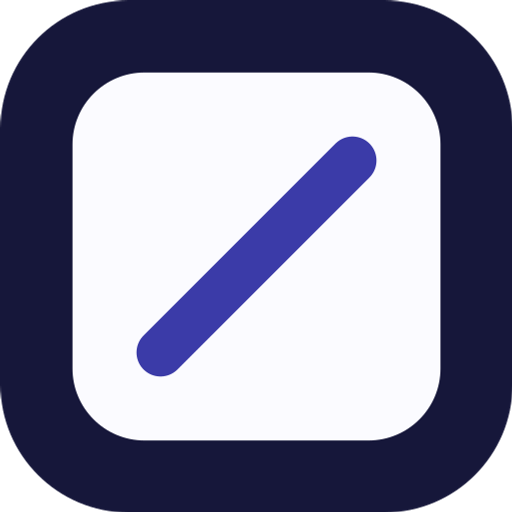
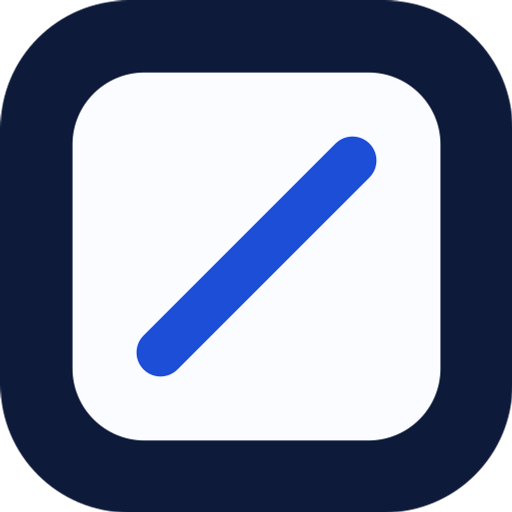
Шрифт Manrope, настоящий синий вместо индиго, кнопка «Смотреть работы» на первом экране

Changed region(s): [[0.25, 0.25, 0.75, 0.75]]

diff --git a/src/components/calc/CeilingPreview.tsx b/src/components/calc/CeilingPreview.tsx
@@ -160,7 +160,7 @@ export default function CeilingPreview({ room, className = '' }: { room: Room; c
   const corniceLen = Math.min(X1 - X0 - 16, room.corniceM * pxPerM);
   const ledOnly = room.ledM > 0 && room.corniceM === 0;
 
-  const fill = room.colored ? '#e0e4f7' : room.canvas === 'fabric' ? '#f8f6f2' : '#f8f8ff';
+  const fill = room.colored ? '#dfe8f8' : room.canvas === 'fabric' ? '#f8f6f2' : '#f8faff';
   const t = room.type;
 
   const label = [
@@ -183,8 +183,8 @@ export default function CeilingPreview({ room, className = '' }: { room: Room; c
           <feGaussianBlur stdDeviation="2.2" />
         </filter>
         <radialGradient id={`spot-${uid}`}>
-          <stop offset="0" stopColor="#aab0ff" stopOpacity="0.85" />
-          <stop offset="1" stopColor="#aab0ff" stopOpacity="0" />
+          <stop offset="0" stopColor="#9bbcff" stopOpacity="0.85" />
+          <stop offset="1" stopColor="#9bbcff" stopOpacity="0" />
         </radialGradient>
         <linearGradient id={`gloss-${uid}`} x1="0" y1="0" x2="1" y2="1">
           <stop offset="0.35" stopColor="#fff" stopOpacity="0" />
@@ -202,11 +202,11 @@ export default function CeilingPreview({ room, className = '' }: { room: Room; c
       </defs>
 
       {/* Стены вокруг потолка */}
-      <rect x="0" y="0" width={W} height={H} rx="18" fill="#eef0fc" />
+      <rect x="0" y="0" width={W} height={H} rx="18" fill="#edf3fd" />
 
       {/* Подсветка по периметру (парящий) */}
       {t === 'paryashchiy' && (
-        <polygon points={pts(poly)} fill="none" stroke="#aab0ff" strokeWidth="14" filter={`url(#glow-${uid})`} opacity="0.95" />
+        <polygon points={pts(poly)} fill="none" stroke="#9bbcff" strokeWidth="14" filter={`url(#glow-${uid})`} opacity="0.95" />
       )}
 
       {/* Полотно */}
@@ -215,14 +215,14 @@ export default function CeilingPreview({ room, className = '' }: { room: Room; c
       <polygon points={pts(poly)} fill={`url(#gloss-${uid})`} />
 
       {/* Примыкание к стенам */}
-      {t === 'tenevoy' && <polygon points={pts(poly)} fill="none" stroke="#16173a" strokeWidth="7" strokeLinejoin="miter" />}
-      {t === 'paryashchiy' && <polygon points={pts(poly)} fill="none" stroke="#3b3ba8" strokeWidth="2.5" />}
-      {(t === 'klassika' || t === 'linii') && <polygon points={pts(poly)} fill="none" stroke="#c8cdea" strokeWidth="3" />}
+      {t === 'tenevoy' && <polygon points={pts(poly)} fill="none" stroke="#0e1a3a" strokeWidth="7" strokeLinejoin="miter" />}
+      {t === 'paryashchiy' && <polygon points={pts(poly)} fill="none" stroke="#1d4ed8" strokeWidth="2.5" />}
+      {(t === 'klassika' || t === 'linii') && <polygon points={pts(poly)} fill="none" stroke="#c3d3ec" strokeWidth="3" />}
 
       <g clipPath={`url(#clip-${uid})`}>
         {/* Скрытый карниз / подсветка в нише у окна */}
         {corniceLen > 0 && (
-          <rect x={X0 + 8} y={Y0 + 2} width={corniceLen} height="12" rx="3" fill={room.ledM > 0 ? '#d3d7fb' : '#d9dcef'} />
+          <rect x={X0 + 8} y={Y0 + 2} width={corniceLen} height="12" rx="3" fill={room.ledM > 0 ? '#d0e0fb' : '#d8e2f2'} />
         )}
         {(room.ledM > 0 && corniceLen > 0) || ledOnly ? (
           <rect
@@ -231,7 +231,7 @@ export default function CeilingPreview({ room, className = '' }: { room: Room; c
             width={corniceLen > 0 ? corniceLen : X1 - X0 - 16}
             height="4"
             rx="2"
-            fill="#aab0ff"
+            fill="#9bbcff"
             filter={`url(#soft-${uid})`}
           />
         ) : null}
@@ -239,13 +239,13 @@ export default function CeilingPreview({ room, className = '' }: { room: Room; c
         {/* Световые линии */}
         {lines.rect && (
           <g>
-            <g stroke="#aab0ff" strokeWidth="8" fill="none" filter={`url(#soft-${uid})`} opacity="0.9">
+            <g stroke="#9bbcff" strokeWidth="8" fill="none" filter={`url(#soft-${uid})`} opacity="0.9">
               <rect x={lines.rect.x} y={lines.rect.y} width={lines.rect.w} height={lines.rect.h} />
               {lines.diagonals.map(([a, b], i) => (
                 <line key={i} x1={a[0]} y1={a[1]} x2={b[0]} y2={b[1]} />
               ))}
             </g>
-            <g stroke="#3b3ba8" strokeWidth="2.5" fill="none" strokeLinecap="square">
+            <g stroke="#1d4ed8" strokeWidth="2.5" fill="none" strokeLinecap="square">
               <rect x={lines.rect.x} y={lines.rect.y} width={lines.rect.w} height={lines.rect.h} />
               {lines.diagonals.map(([a, b], i) => (
                 <line key={i} x1={a[0]} y1={a[1]} x2={b[0]} y2={b[1]} />
@@ -256,23 +256,23 @@ export default function CeilingPreview({ room, className = '' }: { room: Room; c
 
         {/* Обход труб */}
         {Array.from({ length: Math.min(room.pipes, 6) }, (_, i) => (
-          <circle key={i} cx={X0 + 14 + i * 14} cy={Y1 - 14} r="4.5" fill="#fff" stroke="#555880" strokeWidth="2" />
+          <circle key={i} cx={X0 + 14 + i * 14} cy={Y1 - 14} r="4.5" fill="#fff" stroke="#4e5f80" strokeWidth="2" />
         ))}
 
         {/* Точечные светильники */}
         {spots.map(([x, y], i) => (
           <g key={i}>
             <circle cx={x} cy={y} r="11" fill={`url(#spot-${uid})`} />
-            <circle cx={x} cy={y} r="4.2" fill="#ffffff" stroke="#9a9dc0" strokeWidth="1.5" />
+            <circle cx={x} cy={y} r="4.2" fill="#ffffff" stroke="#94a3c4" strokeWidth="1.5" />
           </g>
         ))}
 
         {/* Люстры */}
         {chandeliers.map(([x, y], i) => (
-          <g key={i} stroke="#555880" fill="none">
+          <g key={i} stroke="#4e5f80" fill="none">
             <circle cx={x} cy={y} r="22" fill={`url(#spot-${uid})`} stroke="none" />
             <circle cx={x} cy={y} r="13" strokeWidth="2" />
-            <circle cx={x} cy={y} r="3.5" fill="#555880" stroke="none" />
+            <circle cx={x} cy={y} r="3.5" fill="#4e5f80" stroke="none" />
             {[0, 60, 120, 180, 240, 300].map((a) => (
               <line
                 key={a}

diff --git a/src/styles/global.css b/src/styles/global.css
@@ -7,30 +7,30 @@
  * brand-deep — тёмные страницы, glow — свечение светодиодов (только для декора), ink — текст.
  */
 @theme {
-  --color-ceiling: #fbfbff;
+  --color-ceiling: #fafcff;
   --color-plane: #ffffff;
-  --color-haze: #eef0fc;
-  --color-page-tint: #e4e7f8;
-  --color-mist: #d2d6f0;
-  --color-line: #e0e3f3;
-  --color-brand: #3b3ba8;
-  --color-brand-deep: #26266e;
-  --color-glow: #aab0ff;
-  --color-ink: #16173a;
-  --color-ink-soft: #555880;
+  --color-haze: #edf3fd;
+  --color-page-tint: #e1ebfb;
+  --color-mist: #cddbf4;
+  --color-line: #dce5f5;
+  --color-brand: #1d4ed8;
+  --color-brand-deep: #0f2b6b;
+  --color-glow: #9bbcff;
+  --color-ink: #0e1a3a;
+  --color-ink-soft: #4e5f80;
   --color-wa: #0d7f40;
   --color-wa-deep: #0a6835;
   --color-danger: #b42318;
 
-  --font-display: 'Jost Variable', 'Segoe UI', system-ui, sans-serif;
+  --font-display: 'Manrope Variable', 'Segoe UI', system-ui, sans-serif;
   --font-sans: 'Onest Variable', system-ui, -apple-system, 'Segoe UI', Roboto, sans-serif;
 
   --radius-media: 1.25rem;
   --radius-card: 0.875rem;
   --radius-control: 0.625rem;
 
-  --shadow-float: 0 1px 2px rgb(22 23 58 / 0.06), 0 12px 32px -12px rgb(22 23 58 / 0.2);
-  --shadow-glow: 0 22px 44px -22px rgb(59 59 168 / 0.55);
+  --shadow-float: 0 1px 2px rgb(14 26 58 / 0.06), 0 12px 32px -12px rgb(14 26 58 / 0.2);
+  --shadow-glow: 0 22px 44px -22px rgb(29 78 216 / 0.55);
 
   --animate-fade-in: fade-in 0.35s ease-out both;
   --animate-slide-in: slide-in 0.28s cubic-bezier(0.2, 0.8, 0.2, 1) both;
@@ -117,7 +117,7 @@
   }
 
   dialog::backdrop {
-    background: rgb(22 23 58 / 0.6);
+    background: rgb(14 26 58 / 0.6);
     backdrop-filter: blur(3px);
   }
 
@@ -152,7 +152,7 @@
 }
 
 @utility btn-ink {
-  @apply btn bg-ink text-white hover:bg-[#2b2d5c];
+  @apply btn bg-ink text-white hover:bg-[#1f3160];
 }
 
 @utility btn-ghost {
@@ -258,12 +258,12 @@
 
 .hero-brand {
   display: block;
-  margin-right: -0.1em;
+  margin-right: -0.08em;
   font-family: var(--font-display);
-  font-size: clamp(2.75rem, 13.4vw, 7.5rem);
-  font-weight: 340;
-  line-height: 0.95;
-  letter-spacing: 0.1em;
+  font-size: clamp(2.5rem, 11.6vw, 6.75rem);
+  font-weight: 600;
+  line-height: 1;
+  letter-spacing: 0.06em;
   color: var(--color-ink);
 }
 
@@ -272,20 +272,42 @@
   max-width: 30ch;
   margin-top: 1.25rem;
   font-family: var(--font-display);
-  font-size: clamp(1.25rem, 3.6vw, 1.875rem);
-  font-weight: 400;
-  line-height: 1.22;
+  font-size: clamp(1.125rem, 3.4vw, 1.625rem);
+  font-weight: 500;
+  line-height: 1.3;
+  letter-spacing: -0.01em;
   color: var(--color-ink);
 }
 
-/* На телефоне та же кнопка уже есть в нижней панели */
-.hero-cta {
-  display: none;
+.hero-actions {
+  display: flex;
+  flex-wrap: wrap;
+  gap: 0.75rem;
   margin-top: 2rem;
+}
+
+.hero-cta,
+.hero-more {
   min-height: 3.25rem;
   padding-inline: 1.75rem;
   font-size: 1rem;
   animation: hero-lights 0.7s 0.95s ease-out both;
+}
+
+/* На телефоне «Рассчитать» уже есть в нижней панели — здесь только вторая кнопка */
+.hero-cta {
+  display: none;
+}
+
+.hero-more {
+  background: rgb(255 255 255 / 0.72);
+  backdrop-filter: blur(8px);
+}
+
+@media (max-width: 40rem) {
+  .hero-more {
+    width: 100%;
+  }
 }
 
 /* Название собирается из размытия: буквы по очереди, затем слова строки ниже */
@@ -396,8 +418,8 @@
 .page[data-tone='tint'] {
   --page-bg: var(--color-page-tint);
   /* Линии и обводки на индиго-фоне делаем темнее, иначе они пропадают */
-  --color-line: #c8cdee;
-  --color-mist: #b3b9e8;
+  --color-line: #c3d3f1;
+  --color-mist: #adc2ec;
 }
 
 .page[data-tone='deep'] {
@@ -434,9 +456,9 @@
 
   /* Белая карточка на тёмном фоне (форма, виджеты) возвращает обычные тёмные цвета */
   & .card-light {
-    --color-ink-soft: #555880;
-    --color-line: #e0e3f3;
-    --color-mist: #d2d6f0;
+    --color-ink-soft: #4e5f80;
+    --color-line: #dce5f5;
+    --color-mist: #cddbf4;
     color: var(--color-ink);
 
     & :focus-visible {
@@ -665,7 +687,7 @@
   right: -4%;
   width: 62%;
   height: 84%;
-  background: radial-gradient(closest-side, rgb(170 176 255 / 0.3), transparent);
+  background: radial-gradient(closest-side, rgb(155 188 255 / 0.3), transparent);
   filter: blur(28px);
   pointer-events: none;
 }
@@ -974,8 +996,8 @@
   border-radius: var(--radius-media);
   background: var(--color-mist);
   box-shadow:
-    0 1px 2px rgb(22 23 58 / 0.1),
-    0 34px 46px -30px rgb(38 38 110 / 0.7);
+    0 1px 2px rgb(14 26 58 / 0.1),
+    0 34px 46px -30px rgb(15 43 107 / 0.7);
 }
 
 .wf-card img {
@@ -1041,7 +1063,7 @@
   pointer-events: none;
   opacity: 0;
   transition: opacity 0.35s;
-  background: radial-gradient(16rem circle at var(--sx, 50%) var(--sy, 50%), rgb(59 59 168 / 0.14), transparent 70%);
+  background: radial-gradient(16rem circle at var(--sx, 50%) var(--sy, 50%), rgb(29 78 216 / 0.14), transparent 70%);
 }
 
 [data-tilt] {

diff --git a/scripts/og-image.py b/scripts/og-image.py
@@ -24,7 +24,7 @@ def font(family: str, subset: str, size: int, weight: int) -> ImageFont.FreeType
     return f
 
 
-img = Image.new('RGB', (W, H), '#fbfbff')
+img = Image.new('RGB', (W, H), '#fafcff')
 
 # Фото справа: белый «зазор», тонкая рамка и индиго-свечение снизу
 photo = Image.open(PHOTO).convert('RGB')
@@ -36,31 +36,31 @@ photo = photo.crop((left, top, left + pw, top + ph))
 px, py = W - pw - 40, 40
 
 glow = Image.new('RGBA', (W, H), (0, 0, 0, 0))
-ImageDraw.Draw(glow).rounded_rectangle([px + 20, py + 60, px + pw - 20, py + ph + 24], radius=40, fill=(170, 176, 255, 170))
+ImageDraw.Draw(glow).rounded_rectangle([px + 20, py + 60, px + pw - 20, py + ph + 24], radius=40, fill=(155, 188, 255, 170))
 glow = glow.filter(ImageFilter.GaussianBlur(28))
 img.paste(glow, (0, 0), glow)
 
 d = ImageDraw.Draw(img)
-d.rounded_rectangle([px - 7, py - 7, px + pw + 7, py + ph + 7], radius=30, fill='#ffffff', outline='#e0e3f3', width=1)
+d.rounded_rectangle([px - 7, py - 7, px + pw + 7, py + ph + 7], radius=30, fill='#ffffff', outline='#dce5f5', width=1)
 mask = Image.new('L', (pw, ph), 0)
 ImageDraw.Draw(mask).rounded_rectangle([0, 0, pw, ph], radius=24, fill=255)
 img.paste(photo, (px, py), mask)
 
 # Логотип
 x0, y0, s = 64, 70, 52
-d.rounded_rectangle([x0, y0, x0 + s, y0 + s], radius=13, fill='#16173a')
-d.rounded_rectangle([x0 + 7, y0 + 7, x0 + s - 7, y0 + s - 7], radius=7, fill='#fbfbff')
-d.line([x0 + 16, y0 + 36, x0 + 36, y0 + 16], fill='#3b3ba8', width=5)
-d.text((x0 + s + 18, y0 + 2), BRAND, font=font('jost', 'latin', 42, 560), fill='#16173a')
+d.rounded_rectangle([x0, y0, x0 + s, y0 + s], radius=13, fill='#0e1a3a')
+d.rounded_rectangle([x0 + 7, y0 + 7, x0 + s - 7, y0 + s - 7], radius=7, fill='#fafcff')
+d.line([x0 + 16, y0 + 36, x0 + 36, y0 + 16], fill='#1d4ed8', width=5)
+d.text((x0 + s + 18, y0 + 2), BRAND, font=font('manrope', 'latin', 42, 560), fill='#0e1a3a')
 
 # Заголовок и подписи
-title_font = font('jost', 'cyrillic', 78, 560)
+title_font = font('manrope', 'cyrillic', 78, 560)
 y = 170
 for line in TITLE:
-    d.text((64, y), line, font=title_font, fill='#16173a')
+    d.text((64, y), line, font=title_font, fill='#0e1a3a')
     y += 76
-d.text((64, y + 36), SUBTITLE, font=font('onest', 'cyrillic', 30, 450), fill='#555880')
-d.text((64, y + 80), PHONE, font=font('onest', 'latin', 32, 650), fill='#26266e')
+d.text((64, y + 36), SUBTITLE, font=font('onest', 'cyrillic', 30, 450), fill='#4e5f80')
+d.text((64, y + 80), PHONE, font=font('onest', 'latin', 32, 650), fill='#0f2b6b')
 
 img.save('public/og.jpg', quality=88)
 print('OK: public/og.jpg')
